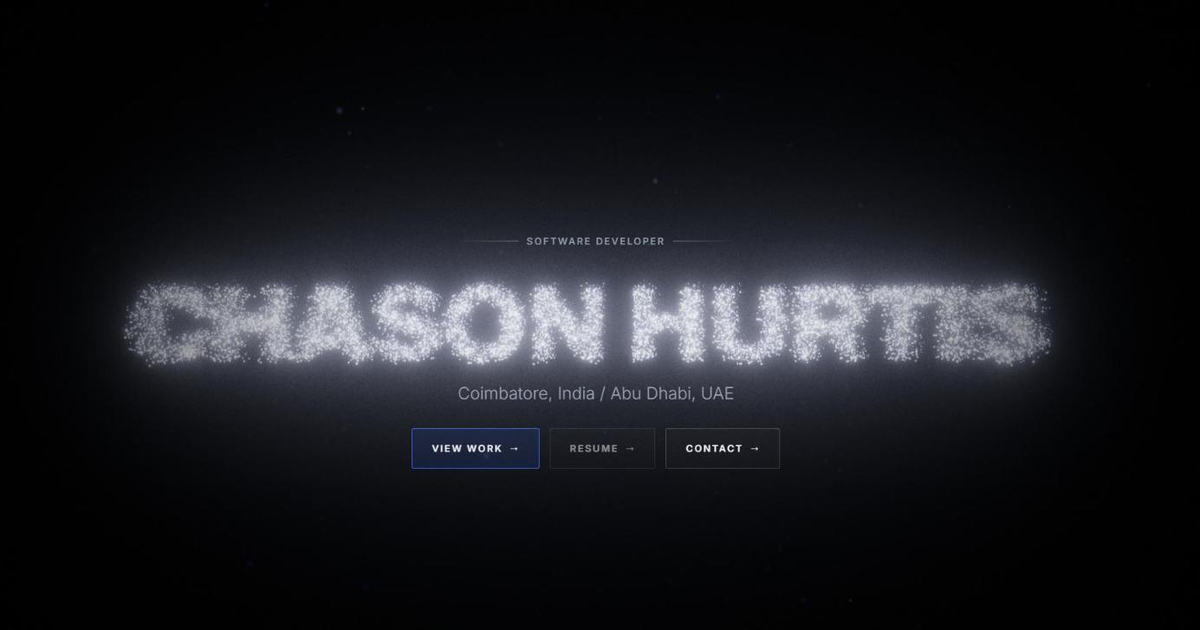
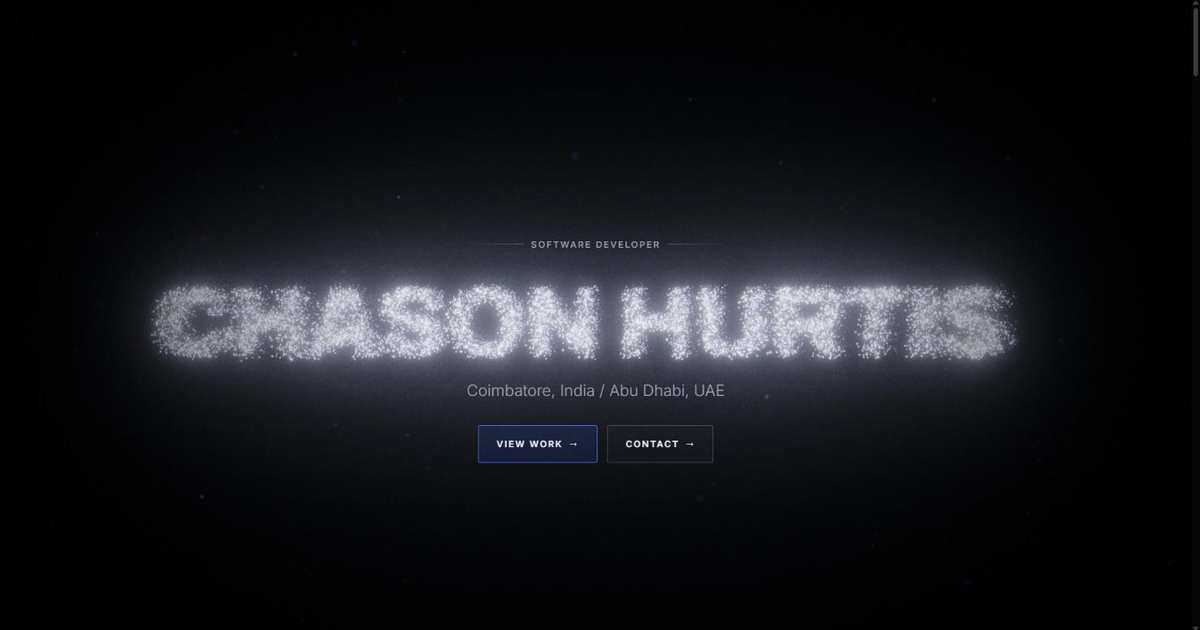
Drop the Resume call to action
No PDF is coming, so the button was permanently disabled — a dead control in
the most prominent position on the page is worse than one fewer option. The
hero is now View Work and Contact, both live.

Regenerated public/og.png to match; the old one still showed the greyed-out
third button.

diff --git a/index.html b/index.html
@@ -178,12 +178,6 @@
               </a>
             </li>
             <li>
-              <a class="cta" href="/chason-hurtis-resume.pdf">
-                <span>Resume</span>
-                <span class="cta__arrow" aria-hidden="true">&rarr;</span>
-              </a>
-            </li>
-            <li>
               <a class="cta" href="#contact">
                 <span>Contact</span>
                 <span class="cta__arrow" aria-hidden="true">&rarr;</span>

diff --git a/src/content/site.ts b/src/content/site.ts
@@ -31,8 +31,6 @@ export const site: SiteContent = {
     tagline: 'Coimbatore, India / Abu Dhabi, UAE',
     ctas: [
       { label: 'View Work', href: '#work' },
-      // TODO: add your PDF at public/chason-hurtis-resume.pdf
-      { label: 'Resume', href: '/chason-hurtis-resume.pdf', placeholder: true },
       { label: 'Contact', href: '#contact' },
     ],
   },

diff --git a/README.md b/README.md
@@ -146,8 +146,7 @@ to a `gh-pages` branch. On a user site (`<user>.github.io`) or a custom domain, 
 
 ### Before you ship
 
-- [ ] Add `public/og.png` (1200×630 — a frame of the hero reveal works well)
-- [ ] Add `public/chason-hurtis-resume.pdf`
+- [x] `public/og.png` — a 1200×630 frame of the settled hero
 - [x] Deployed at https://churtis.vercel.app — canonical, OG and robots.txt all point there
 - [ ] Fill in the per-project `links` in `site.ts` (the GitHub profile is set)
 
